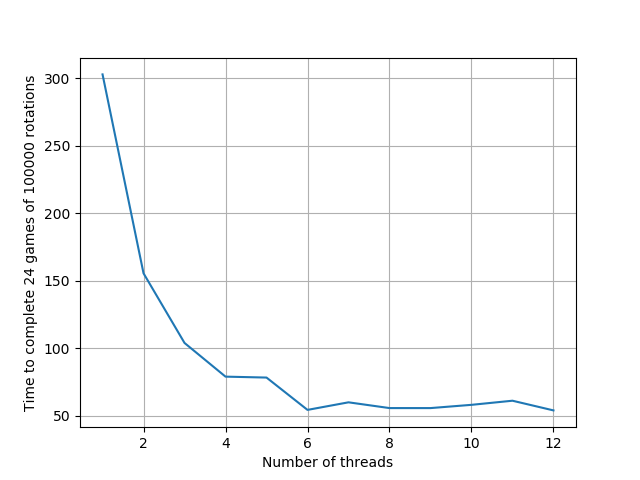
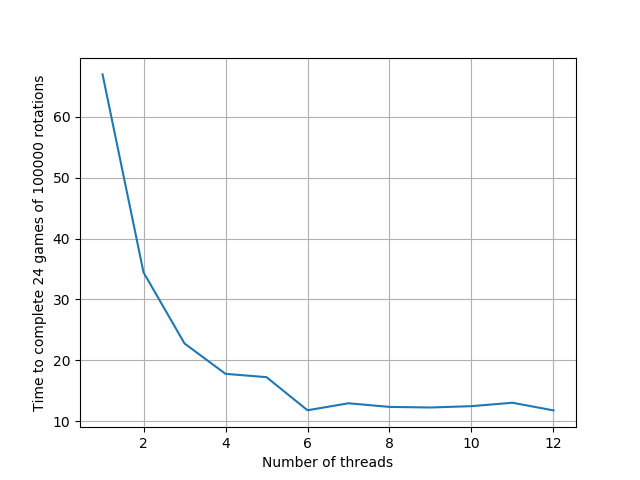
Ændret mappestruktur, så intellisense bliver hjælpsom til tests

diff --git a/src/rubiks/rubiks.py b/src/rubiks/rubiks.py
@@ -3,7 +3,7 @@ import numpy as np
 
 class RubiksCube:
 
-	assembled = np.zeros((6, 8, 6), dtype = int)
+	assembled = np.zeros((6, 8, 6), dtype = np.uint8)
 	for i in range(6):
 		assembled[i, ..., i] = 1
 
@@ -93,7 +93,7 @@ class RubiksCube:
 
 if __name__ == "__main__":
 	from utils.ticktock import TickTock
-	n = int(1e4)
+	n = int(1e5)
 	tt = TickTock()
 
 	def test_scramble(_):
@@ -102,10 +102,10 @@ if __name__ == "__main__":
 
 	import multiprocessing as mp
 	import matplotlib.pyplot as plt
-	nps = range(1, 7)
+	nps = range(1, 13)
 	times = np.empty(nps.stop - nps.start)
 	moves = np.empty(nps.stop - nps.start)
-	games = 12
+	games = 24
 	for n_processes in nps:
 		with mp.Pool(n_processes) as p:
 			tt.tick()

diff --git a/src/tests/test_example.py b/src/tests/test_example.py
@@ -1,12 +1,7 @@
-# Hacky import code needed to import from sibling dir
-import sys, os
-sys.path.append(os.path.join(sys.path[0], '..', 'src'))
+import torch
 
-
-import torch 
-
-from example import ExampleAdder
-from utils.ticktock import TickTock
+from ..rubiks.example import ExampleAdder
+from ..rubiks.utils.ticktock import TickTock
 
 
 

diff --git a/src/tests/test_rubiks.py b/src/tests/test_rubiks.py
@@ -1,9 +1,8 @@
 # Hacky import code needed to import from sibling dir
 import sys, os
-sys.path.append(os.path.join(sys.path[0], '..', 'src'))
+from ..rubiks.rubiks import RubiksCube
 
 import torch
-from rubiks import RubiksCube
 
 class TestCube:
 	pass
